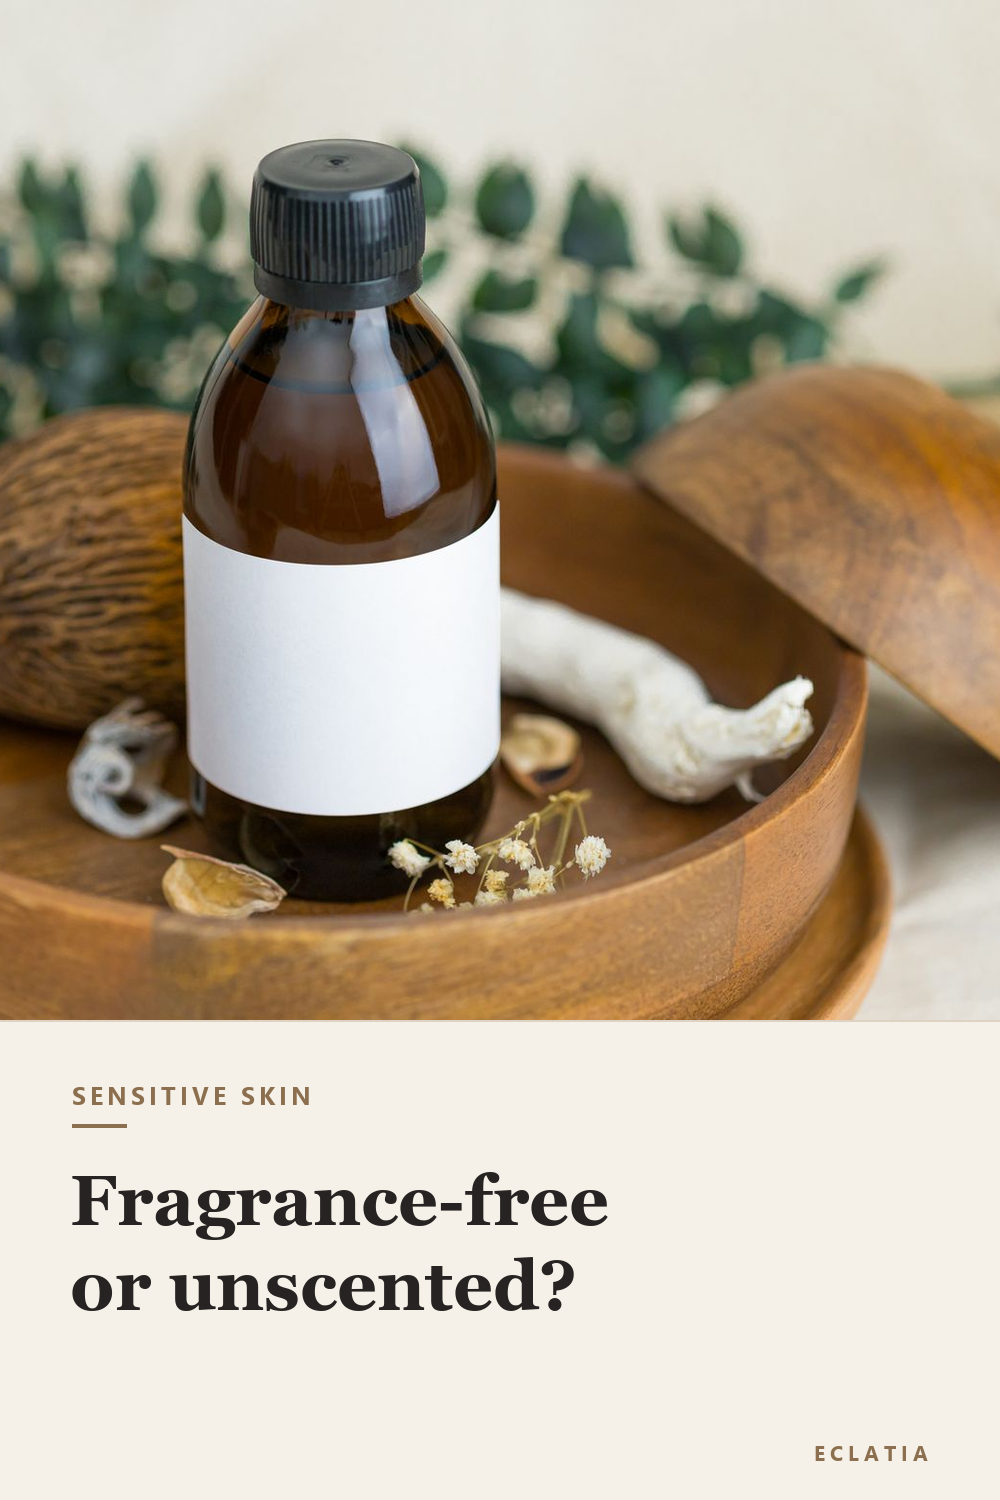
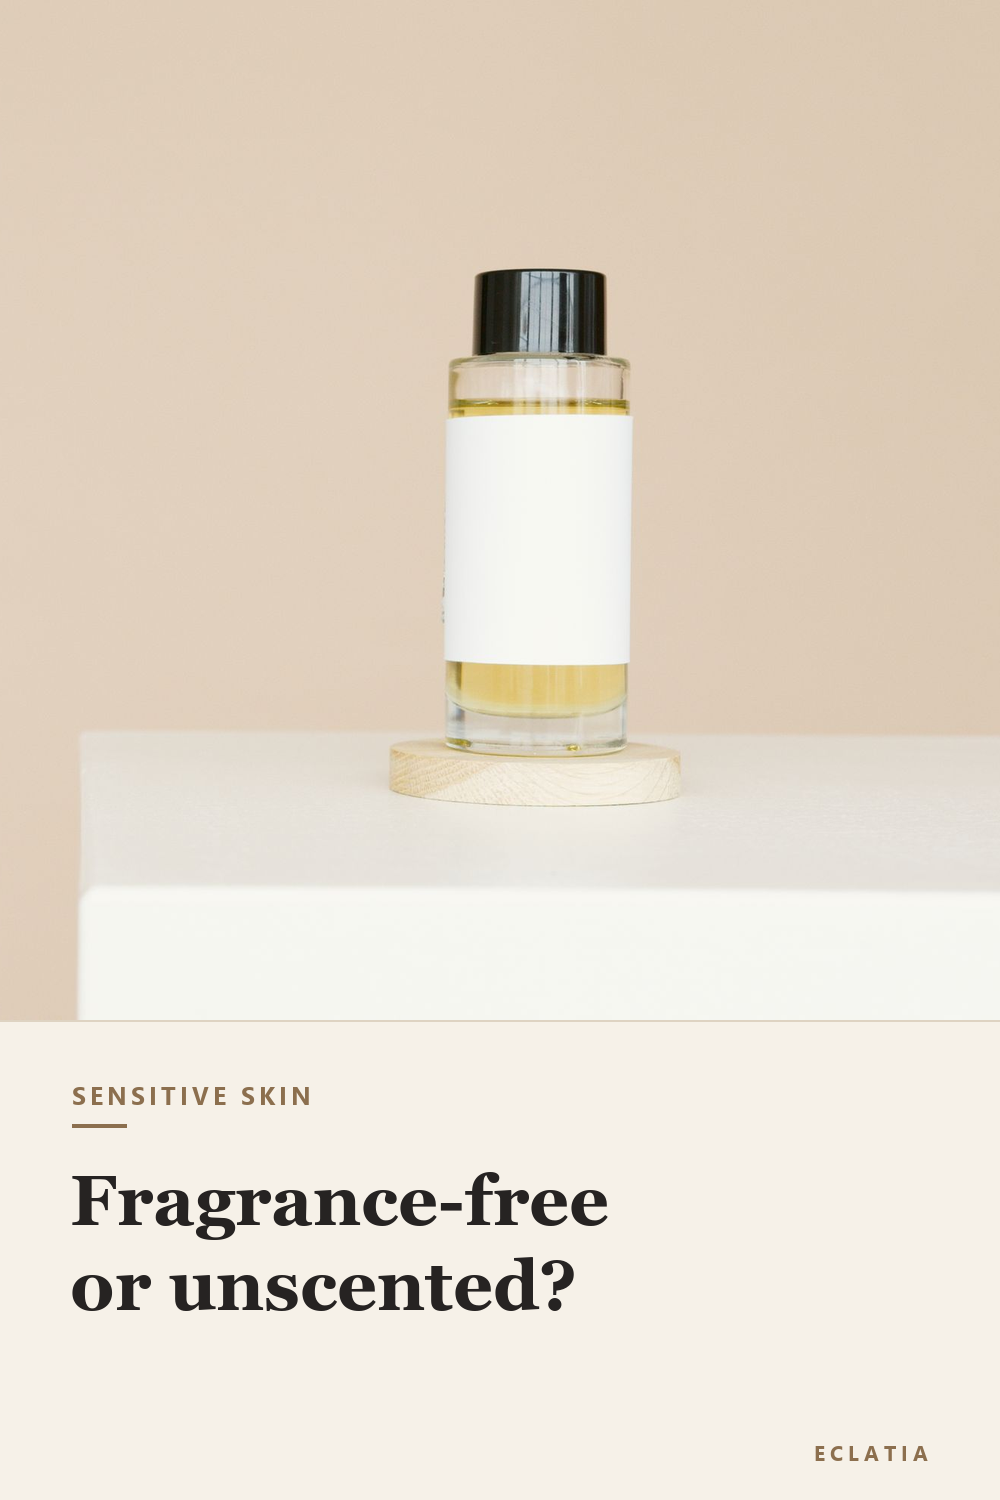
P06: visuel v3, flacon d'huile transparent (style photo produit, sans marque)

diff --git a/scripts/make_pins_p06.py b/scripts/make_pins_p06.py
@@ -1,12 +1,12 @@
-"""Compose le pin P06 (v2) : flacon avec etiquette vierge au lieu du flacon abstrait.
+"""Compose le pin P06 (v2) : flacon avec etiquette vierge au lieu du flacon abstrait.
 
-Le sujet du pin est « ce que dit l'etiquette ». L'ancien visuel montrait un
+Le sujet du pin est Â« ce que dit l'etiquette Â». L'ancien visuel montrait un
 flacon blanc en gros plan, sans etiquette du tout : il ne parlait pas du sujet.
 Ici on voit un flacon ambre avec une etiquette blanche vierge, pose dans une
-coupelle en bois avec de l'eucalyptus — le lecteur comprend qu'il s'agit de lire
+coupelle en bois avec de l'eucalyptus â€” le lecteur comprend qu'il s'agit de lire
 une etiquette. Etiquette vierge = aucune marque visible.
 
-Entree  : visuels/body-oil/base-P06b.jpg  (Pexels 11441227, 1600 x 1057)
+Entree  : visuels/body-oil/base-P06c.jpg  (Pexels 11441227, 1600 x 1057)
 Sortie  : visuels/body-oil/pin-P06.jpg + pin-P06.png (1000 x 1500)
 """
 import os
@@ -34,7 +34,7 @@ def crop_fill(img, w, h, cx=0.5, cy=0.5):
 
 def build():
     photo = crop_fill(
-        Image.open(os.path.join(BASE, "base-P06b.jpg")).convert("RGB"), W, H - PANEL_H, 0.5, 0.5
+        Image.open(os.path.join(BASE, "base-P06c.jpg")).convert("RGB"), W, H - PANEL_H, 0.95, 0.5
     )
     canvas = Image.new("RGB", (W, H), CREAM)
     canvas.paste(photo, (0, 0))

diff --git a/docs/contenus-a-valider/pins/P06-a-publier.md b/docs/contenus-a-valider/pins/P06-a-publier.md
@@ -15,17 +15,22 @@
 | **Lien** | `https://guide-beaute.pages.dev/guides/fragrance-free-body-oil-sensitive-skin/?utm_source=Pinterest&utm_medium=organic&utm_campaign=P06` |
 | **Tableau** | `Body Care & Dry Skin` |
 | **Tagged topics** | Sensitive Skin · Skincare · Body Care |
-| **Alt** | `An amber bottle with a blank white label standing in a wooden bowl among dried botanicals.` |
+| **Alt** | `A clear bottle of golden body oil with a black cap and a blank white label, on a cream background.` |
 
 ---
 
-## Le visuel (v2)
+## Le visuel (v3, photo produit)
 
-L'ancienne image montrait un flacon blanc en très gros plan, **sans étiquette** : elle ne parlait pas du sujet (« ce que dit l'étiquette »). La nouvelle montre un flacon ambre avec une **étiquette blanche vierge**, dans une coupelle en bois avec des botaniques séchées — l'idée de « lire une étiquette » est immédiate, et les plantes évoquent la question du parfum.
+L'image de référence envoyée par Farid était une photo Amazon (Neutrogena) : **impossible de l'utiliser**, les images Amazon ne sortent jamais du site et ne vont jamais sur Pinterest. On en a repris l'**idée** avec une photo Pexels libre :
 
-- Photo : Pexels 11441227 · étiquette **vierge**, aucune marque visible
-- Texte inchangé : `SENSITIVE SKIN` / « Fragrance-free or unscented? » / signature ECLATIA
-- Script : `scripts/make_pins_p06.py` (source `base-P06b.jpg`)
+- flacon transparent, huile dorée visible, bouchon noir, **étiquette blanche vierge**
+- fond crème et socle en bois clair → même famille de couleurs que le bandeau
+- aucune marque visible, aucune retouche du produit
+
+Texte inchangé : `SENSITIVE SKIN` / « Fragrance-free or unscented? » / signature ECLATIA.
+Script : `scripts/make_pins_p06.py` (source `base-P06c.jpg`, Pexels 6801173).
+
+Historique : v1 = flacon blanc sans étiquette (illisible) · v2 = flacon ambre en coupelle (aspect « médicament ») · **v3 retenue**.
 
 ---
 
